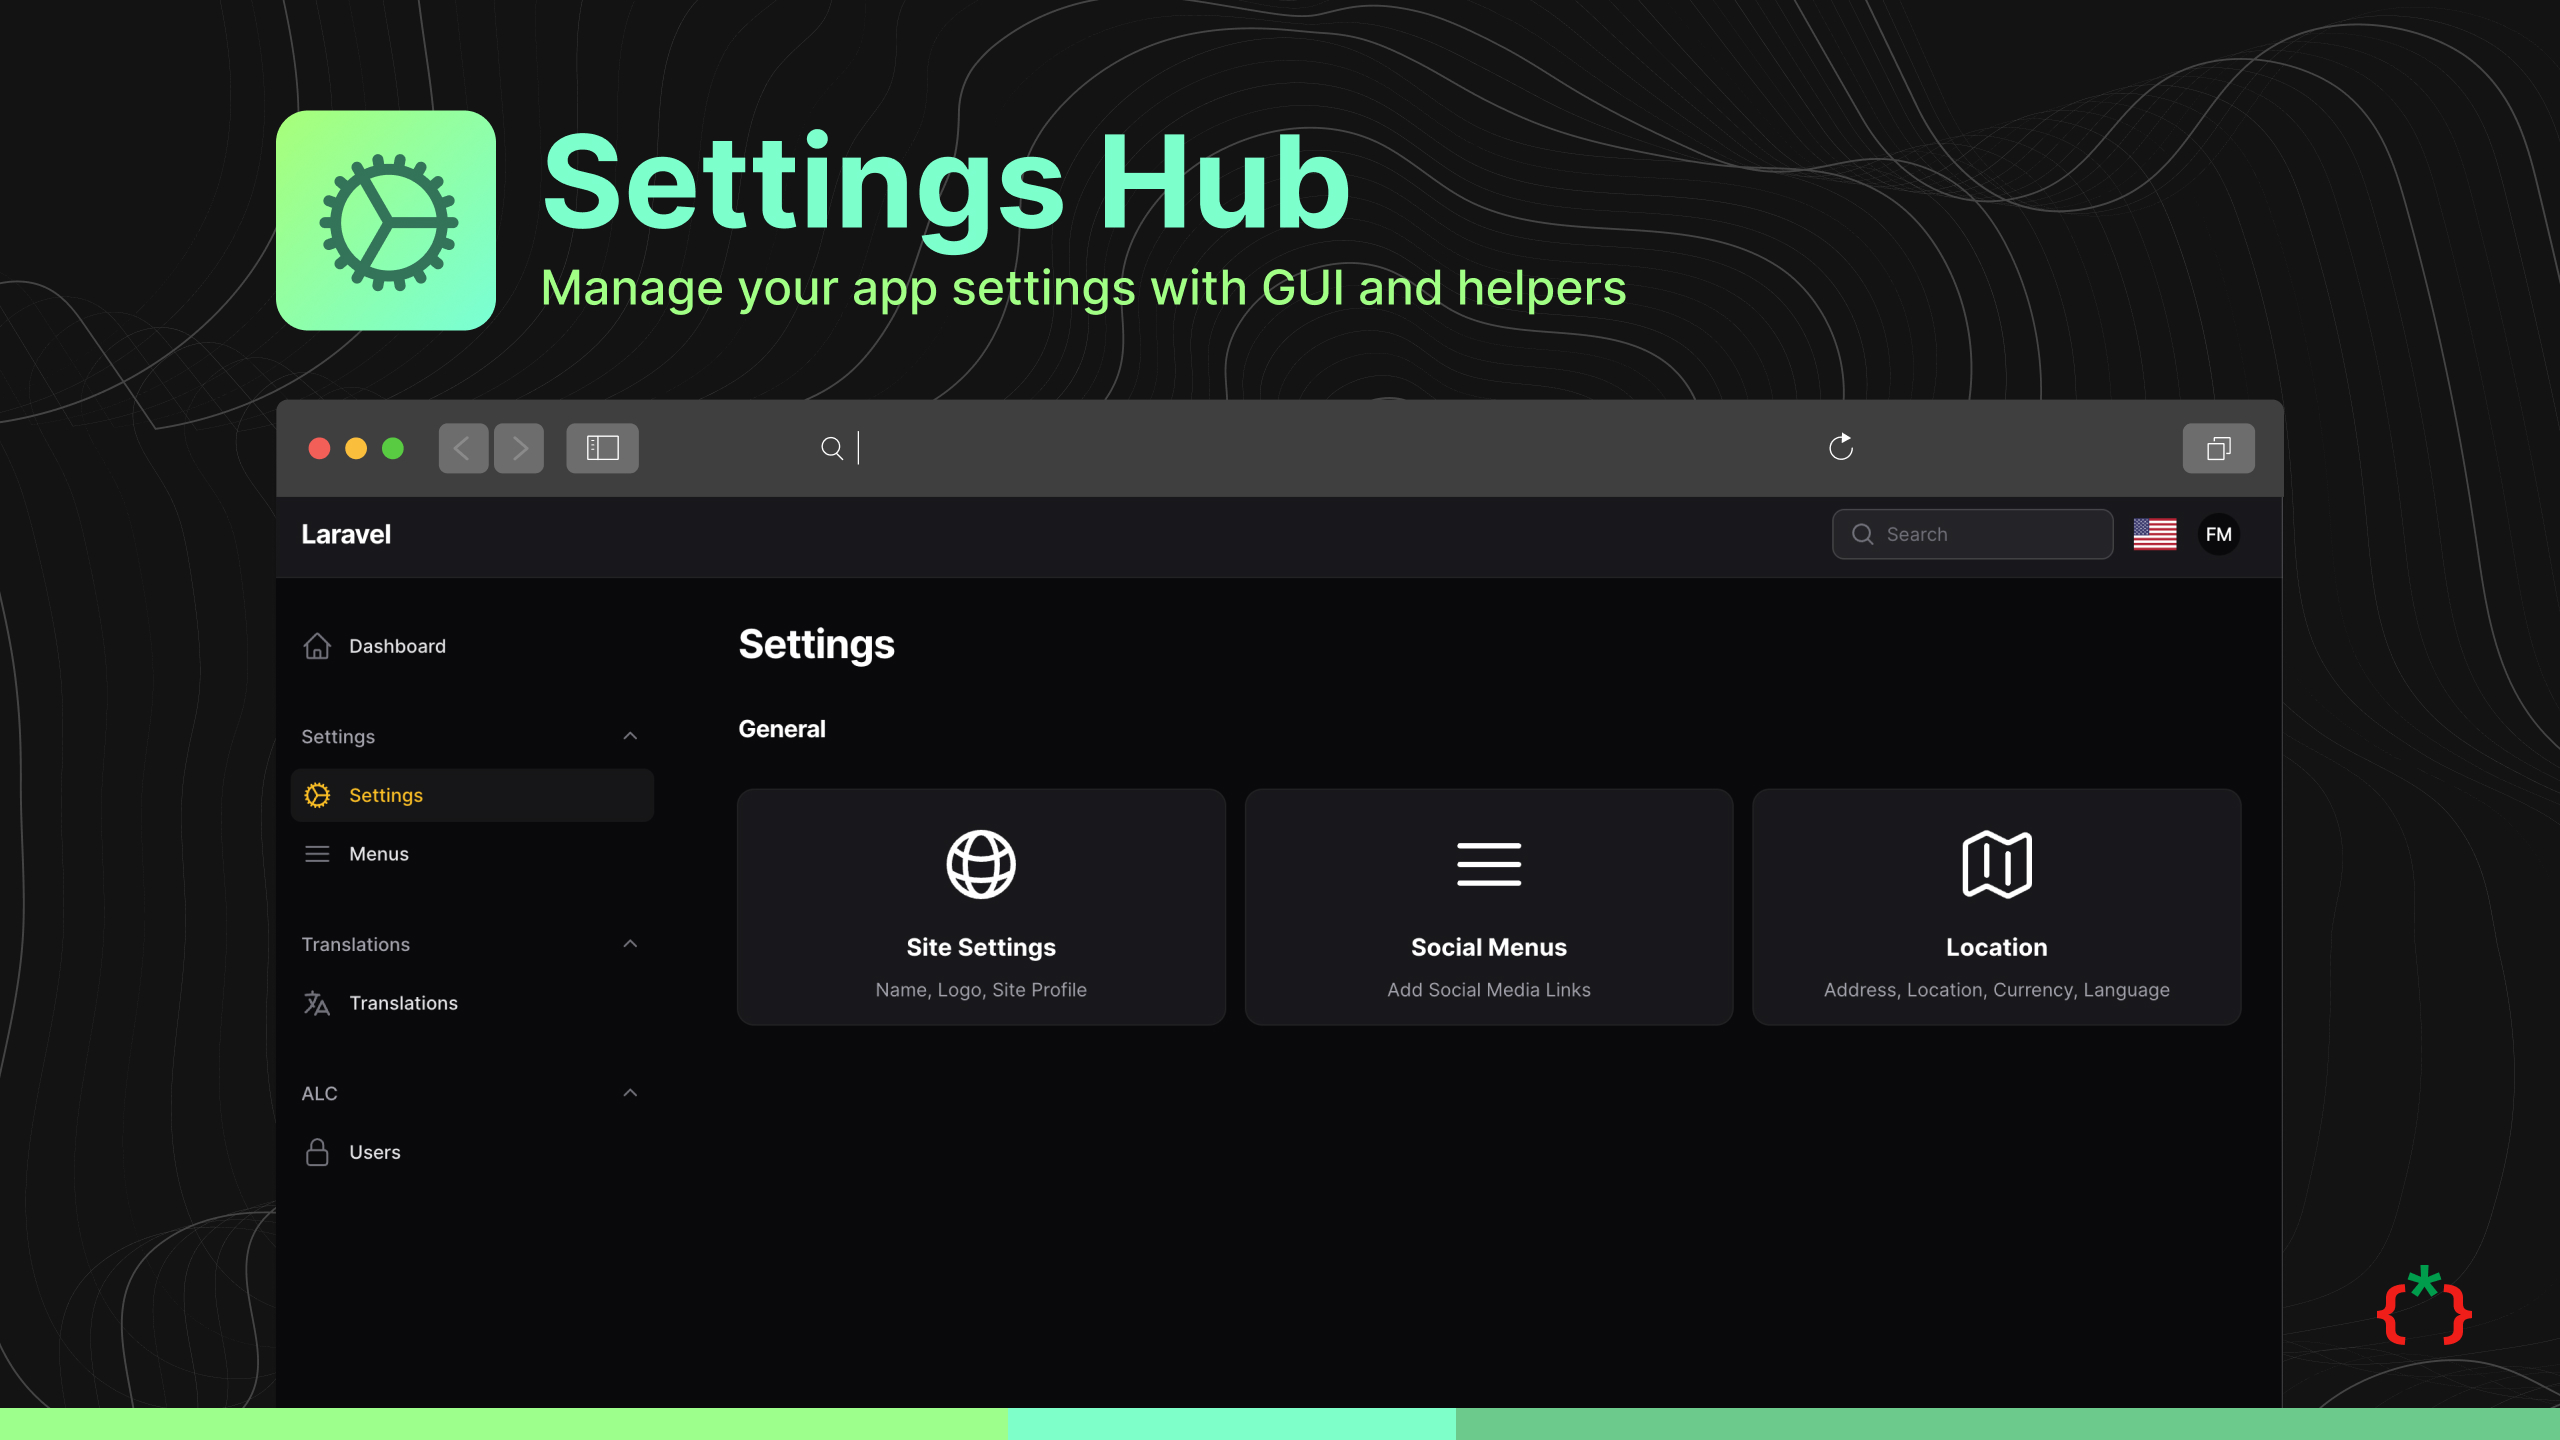
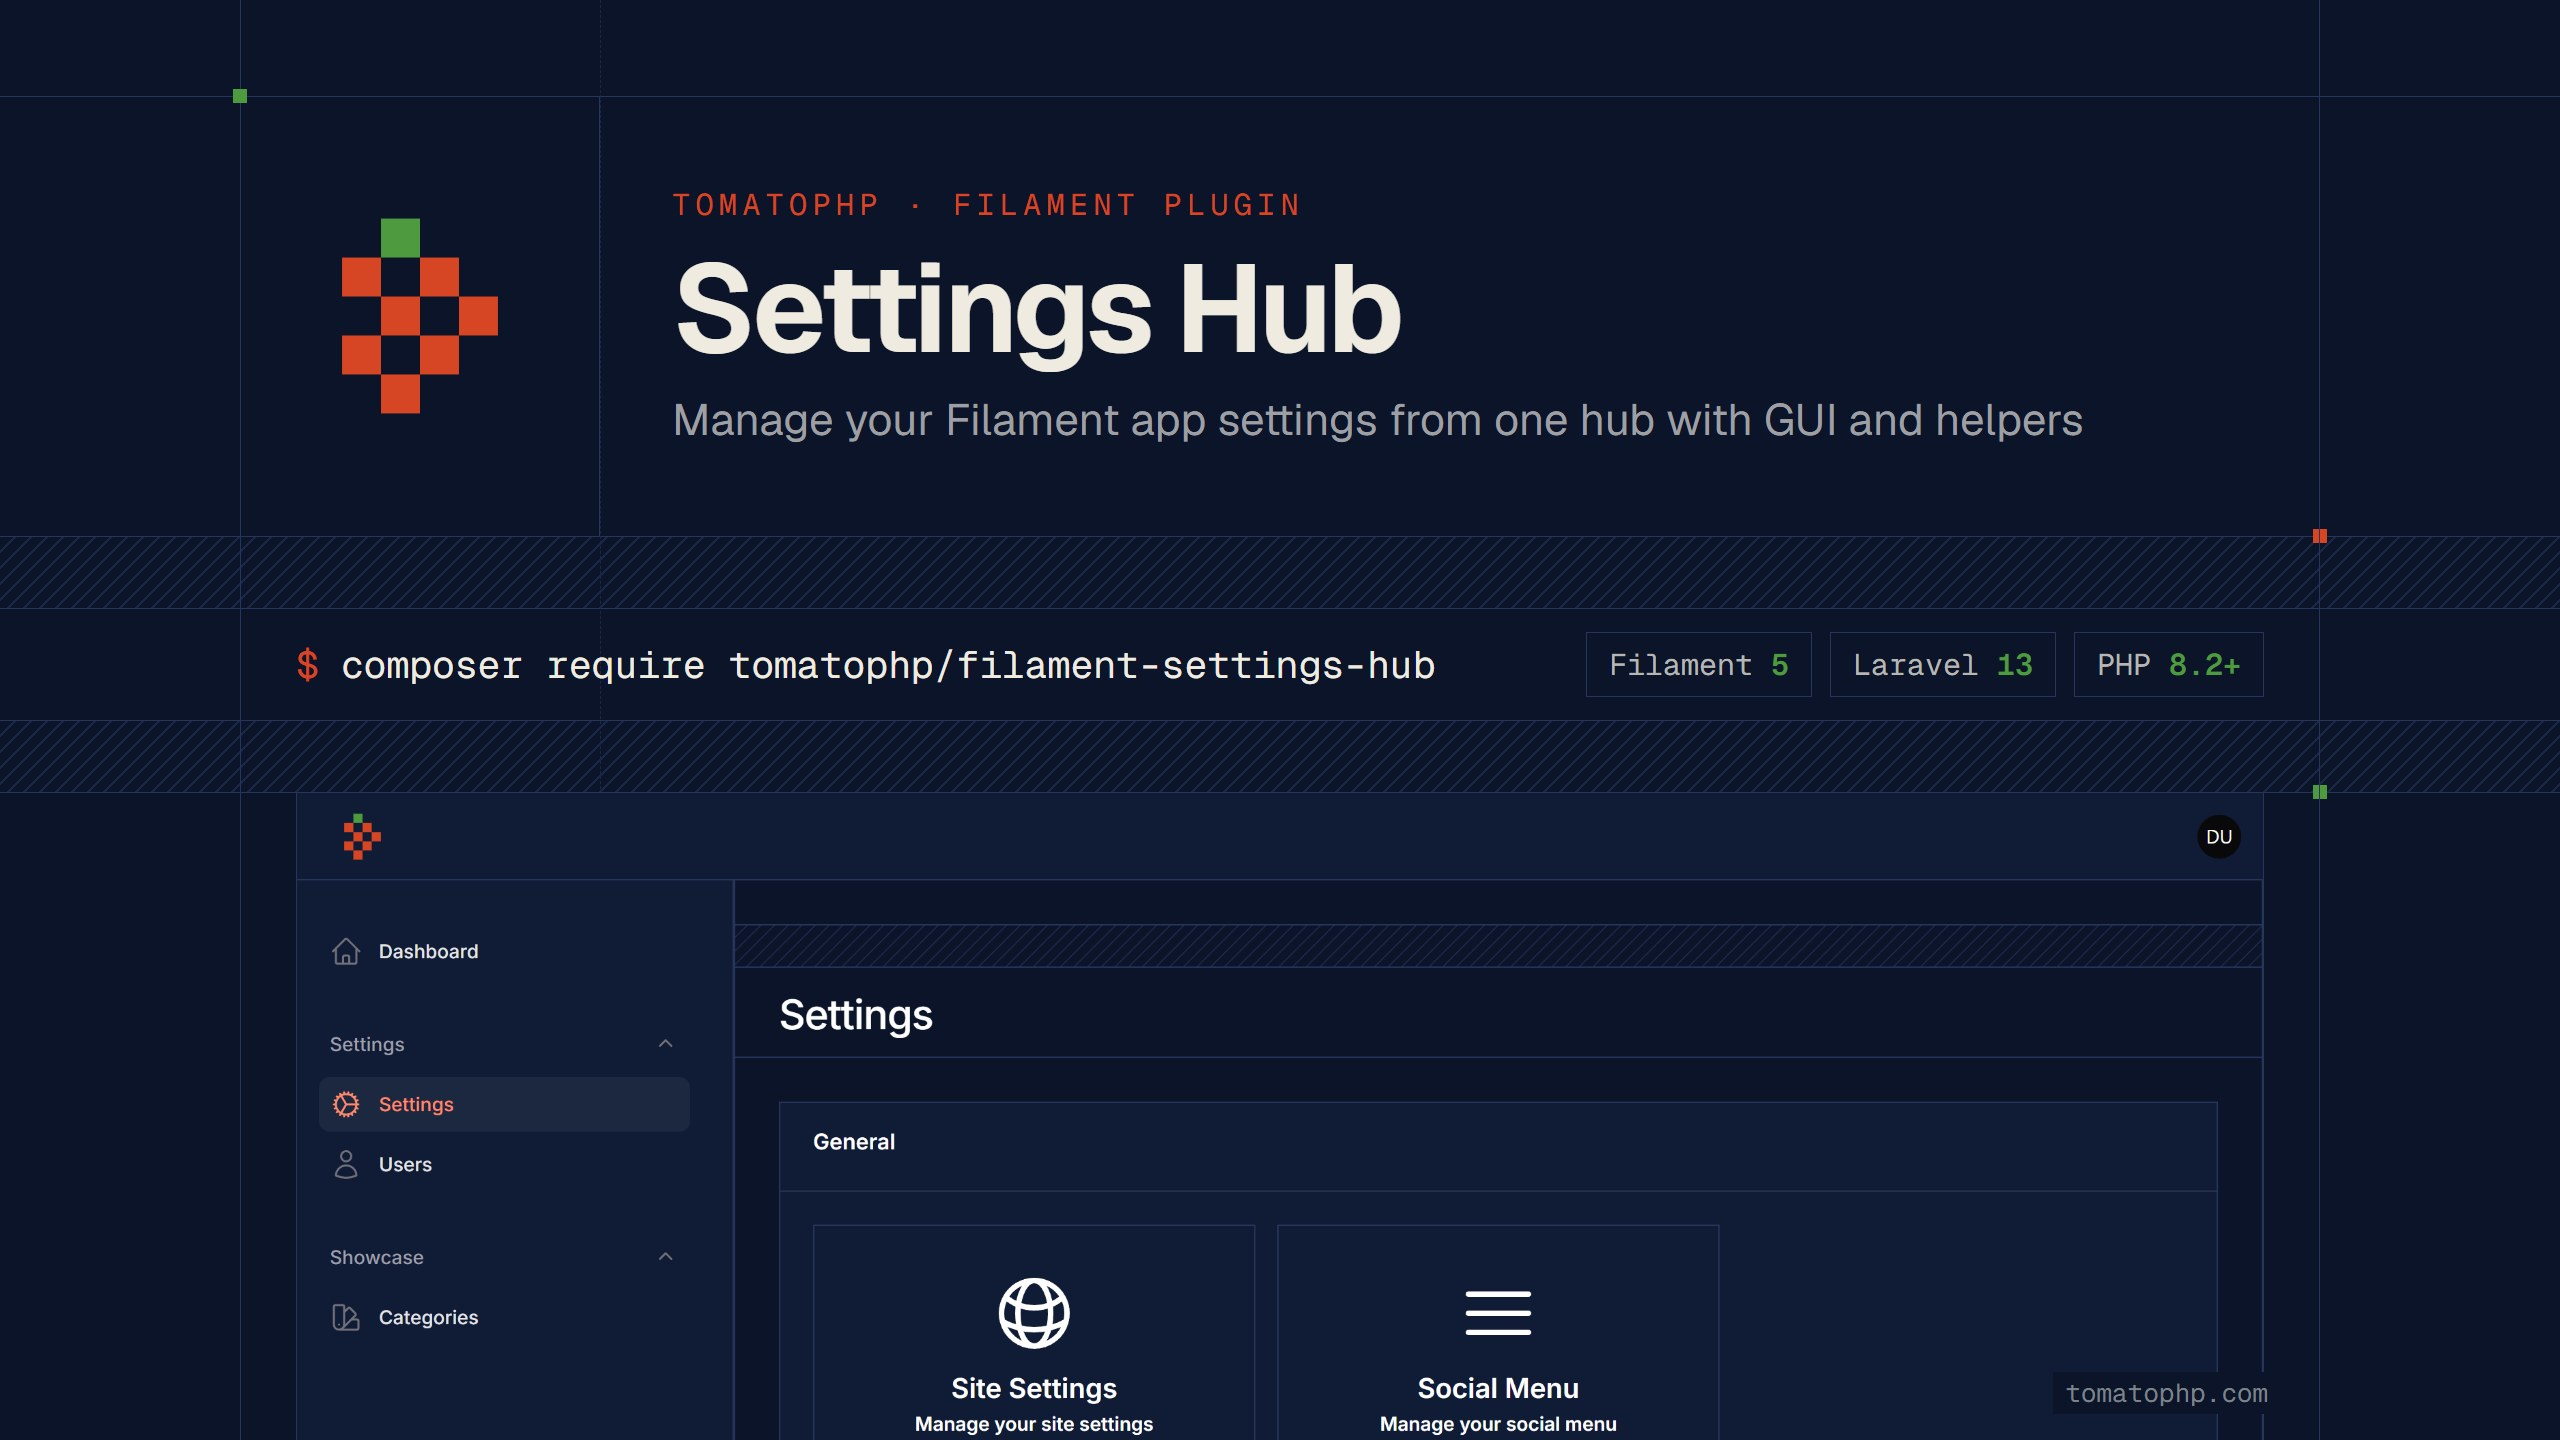
docs: new TomatoPHP cover and demo screenshots

diff --git a/README.md b/README.md
@@ -13,6 +13,11 @@ Manage your Filament app settings with GUI and helpers
 
 ## Screenshots
 
+Try it live on [demo.tomatophp.com](https://demo.tomatophp.com).
+
+![Demo dark](https://raw.githubusercontent.com/tomatophp/filament-settings-hub/master/arts/demo-dark.png)
+![Demo light](https://raw.githubusercontent.com/tomatophp/filament-settings-hub/master/arts/demo-light.png)
+
 ![Screenshot](https://raw.githubusercontent.com/tomatophp/filament-settings-hub/master/arts/settings-hub.png)
 ![Screenshot](https://raw.githubusercontent.com/tomatophp/filament-settings-hub/master/arts/setting-page.png)
 
